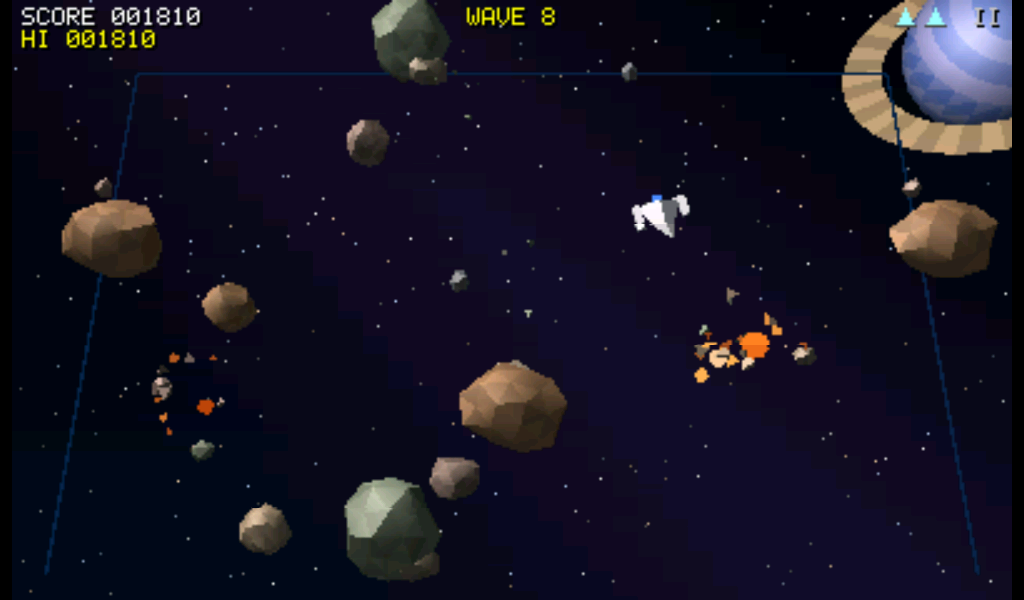
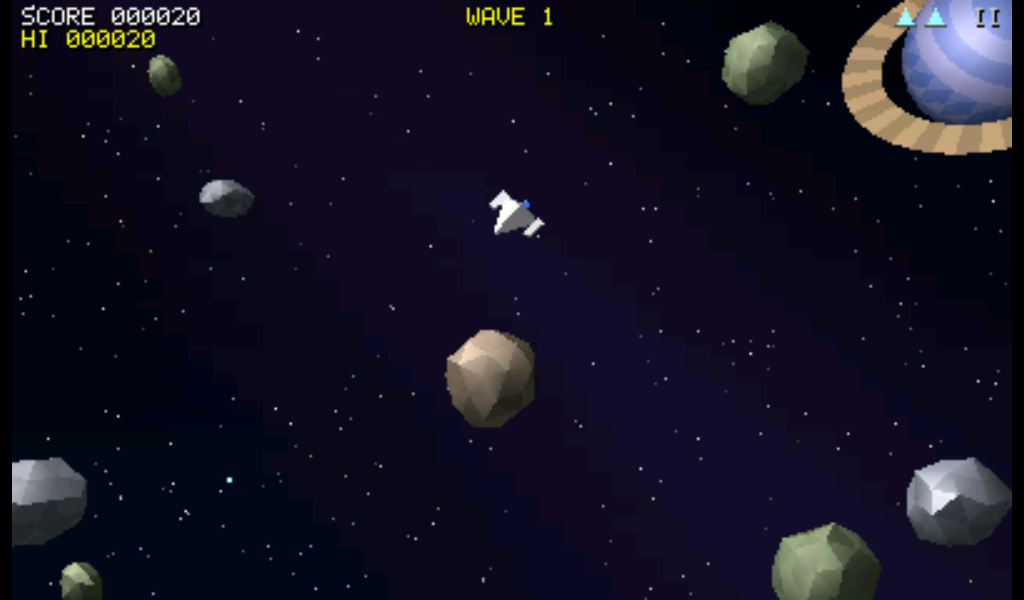
Driftrock 1.0.1: no frame around the field (it looked like a leftover)

diff --git a/game/driftrock/main.c b/game/driftrock/main.c
@@ -1427,7 +1427,7 @@ static void control_ship(const actions_t *a, float dt)
 
 /* ── Drawing ─────────────────────────────────────────────────────────────── */
 static e3d_mesh *m_rock[3][NSHAPES], *m_ship, *m_flame, *m_engine, *m_pshot, *m_ushot, *m_part, *m_boom, *m_ufo,
-                *m_ufo_dome, *m_ufo_lights, *m_planet, *m_ring, *m_edge_x, *m_edge_z;
+                *m_ufo_dome, *m_ufo_lights, *m_planet, *m_ring;
 
 /* starfield: a few stars per row, made beforehand (the row function may only
  * write its row); a faint band of nebula across the sky */
@@ -1579,18 +1579,6 @@ static void draw_scene(e3d_t *e)
         draw_obj(e, m_planet, &m, -1, 0);
         m = mat_at(px, py, pz, 24.f, 0, -18.f, 1, 1, 1);
         draw_obj(e, m_ring, &m, -1, E3D_DOUBLE_SIDED);
-    }
-
-    /* the edges of the field: a faint glow where things wrap */
-    if (!g_icon) {
-        float pulse = 0.25f + 0.08f * sinf(g_t * 2.f);
-        int32_t c = (int32_t)mix_rgb(0, 0x3080FF, pulse);
-        m = mat_at(FXC, -14.f, -FZH, 0, 0, 0, 1, 1, 1);
-        draw_obj(e, m_edge_x, &m, c, E3D_UNLIT);
-        m = mat_at(FXC, -14.f, FZH, 0, 0, 0, 1, 1, 1);
-        draw_obj(e, m_edge_x, &m, c, E3D_UNLIT);
-        m = mat_at(FX1, -14.f, 0, 0, 0, 0, 1, 1, 1);
-        draw_obj(e, m_edge_z, &m, c, E3D_UNLIT);
     }
 
     for (int i = 0; i < MAX_ROCKS; i++)
@@ -1914,10 +1902,8 @@ static bool make_meshes(void)
             m_planet->tris[i].b = (uint8_t)c;
         }
     m_ring = ring(190.f, 265.f, 40, 0xA89070);
-    m_edge_x = box(FLX * 0.5f, 0.6f, 0.9f);
-    m_edge_z = box(0.9f, 0.6f, FZH);
     return m_ship && m_ufo && m_ufo_dome && m_ufo_lights && m_flame && m_engine && m_pshot && m_ushot && m_part && m_boom &&
-           m_planet && m_ring && m_edge_x && m_edge_z;
+           m_planet && m_ring;
 }
 
 static void free_meshes(void)
@@ -1926,7 +1912,7 @@ static void free_meshes(void)
         for (int k = 0; k < NSHAPES; k++)
             e3d_mesh_free(m_rock[s][k]);
     e3d_mesh *all[] = { m_ship, m_flame, m_engine, m_pshot, m_ushot, m_part, m_boom, m_ufo, m_ufo_dome, m_ufo_lights,
-                        m_planet, m_ring, m_edge_x, m_edge_z };
+                        m_planet, m_ring };
     for (unsigned i = 0; i < sizeof(all) / sizeof(all[0]); i++)
         e3d_mesh_free(all[i]);
 }
